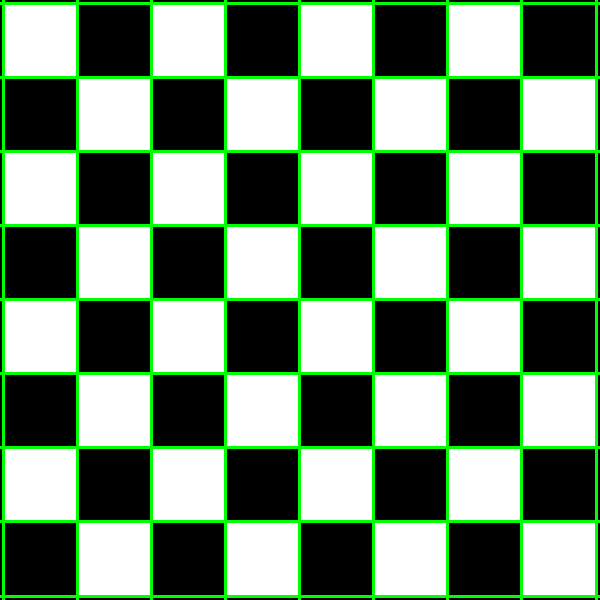
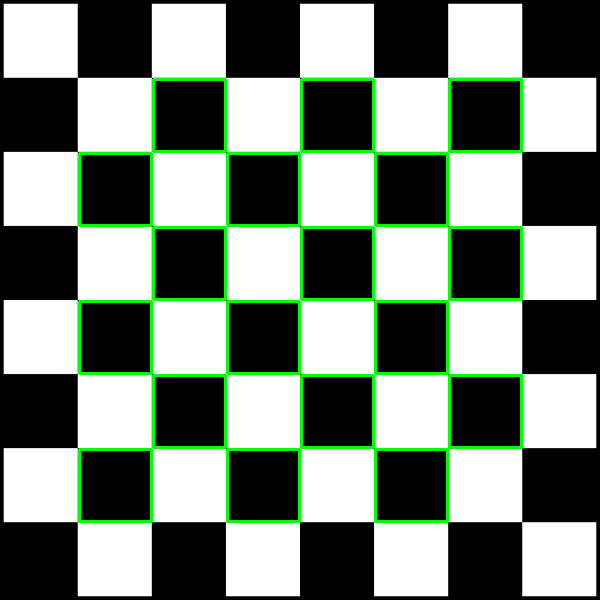
fixed contour

diff --git a/README.md b/README.md
@@ -35,9 +35,9 @@ rosbag play ...
 
 
 
-## Edge detector libraru:
+# Edge detector library:
 
-#### Relevant files:
+### Relevant files:
 1. `EdgeDetector.cpp` and `EdgeDetector.hpp`.
 
 A simple canny edge detector from Opencv has been used to threshold the image and obtain good edges in an image, using appropriate threshold values. After a binary image is obtained, we use one of the following two:
@@ -62,14 +62,14 @@ Outputs:
 4. ![alt img1](output/Image_4.png)
 5. ![alt img1](output/Image_5.jpg)
 
-Observations:
+### Observations:
 Although contour seems to look better, it tends to miss some of the internal squares, and it does not have any notion of straight lines, while hough lines transform can provide geometrically consistent lines, which are more useful in some tasks. With more tuning, perhaps the performance can be improved. The image is first blurred and morphological operations are first performed to highlight the corners better.
 
 The library has been build using catkin and Cmake.
 
 
 
-## ROS Service
+# ROS Service
 
 Relevant files are : 
 1. edge_detection_service.cpp
@@ -82,7 +82,7 @@ A ROS service exposes the library functionality has been created as `DetectEdges
 
 Adjust the directory name in `src/edge_detection_service_client.cpp`
 
-## ROS Callback node
+# ROS Callback node
 
 Relevant files
 1. edge_detection_node.cpp
@@ -107,7 +107,7 @@ Example output presented here.
 
 
 
-## ROS markers visualization
+# ROS markers visualization
 The 3D points are then sent to a `place_markers` function within the same files to create a marker with the given position, and `root_link` as frame_id. (Not sure if this is the right one, as the results seem poor). They are then pushed to a marker array and published as a viz_marker onto the topic `viz_marker_array`, as green markers. The results are quite poor again, and it is because of the previous issue. 
 
 Take a look at `output/all_combined.flv` for the full performance (part 4)
